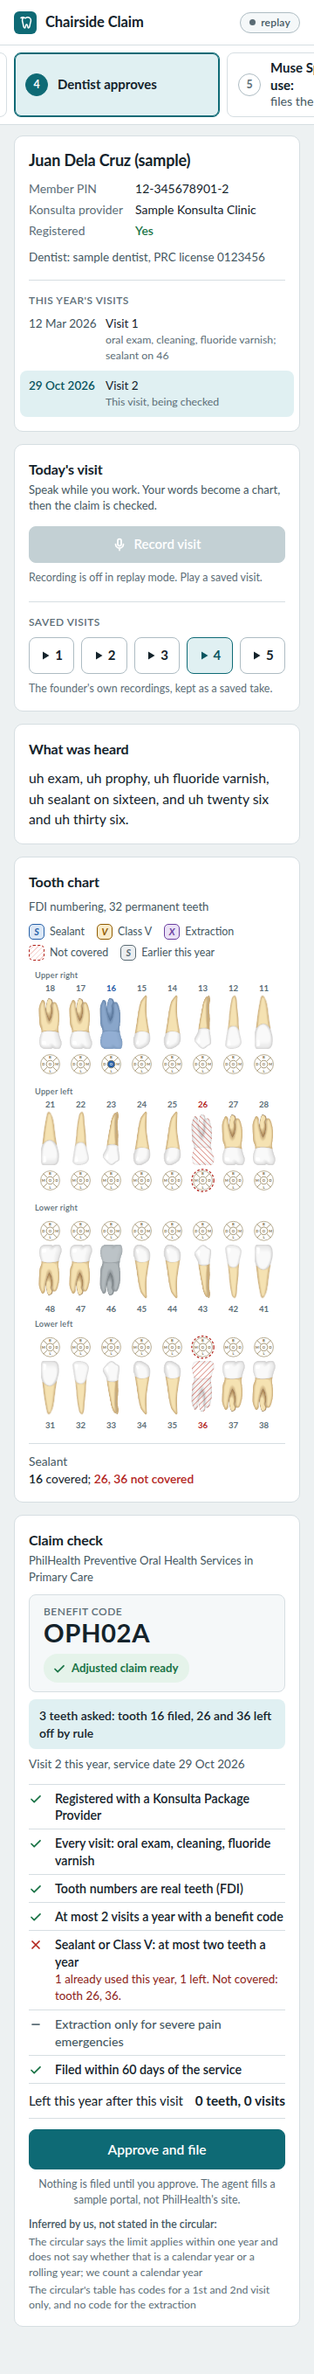
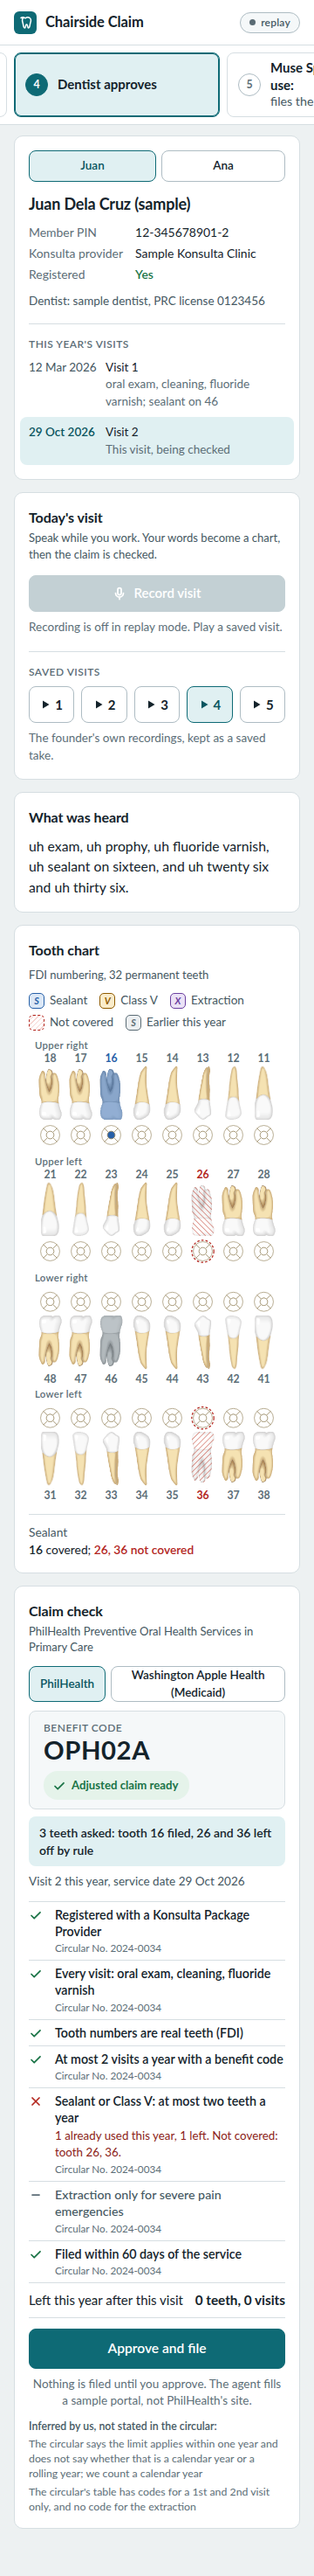
phone: larger chart numbers and small print, surface letters hidden at 360 px
Sol read the 360 px view as FAIL (labels too small), then PASS after this change.

Changed region(s): [[0.0306, 0.0, 0.9472, 0.9897], [0.7639, 0.0, 1.0, 0.0619]]

diff --git a/app/static/index.html b/app/static/index.html
@@ -176,6 +176,14 @@ svg.ico { width: 16px; height: 16px; flex: none; fill: none; stroke: currentColo
 .tooth.s-sealant .tn { fill: var(--sealant); } .tooth.s-class_v .tn { fill: var(--classv); } .tooth.s-extraction .tn { fill: var(--extraction); } .tooth.earlier .tn { fill: var(--earlier); }
 .tooth.refused .tn { fill: var(--fail); }
 .midline { stroke: #c3ccd1; stroke-dasharray: 3 4; }
+@media (max-width: 560px) {
+  #chart.narrow .tn { font-size: 14px; }
+  #chart.narrow .zone { font-size: 13px; }
+  #chart.narrow .sl { display: none; }
+  .rule .rs, .inferred, .vrow .t small, .hint, .legend, .prow, .rule .nolist { font-size: .9rem; }
+  .rule .rd { font-size: .95rem; }
+}
+
 .zone { font: 600 10.5px var(--font); fill: var(--ink-3); letter-spacing: .03em; }
 .tlist { margin-top: 12px; border-top: 1px solid var(--line); padding-top: 10px; display: grid; gap: 6px; font-size: .92rem; }
 .tlist .none { color: var(--ink-3); }
@@ -520,7 +528,7 @@ function toothSVG(c, L) {
 
 function renderChart() {
   const L = layout(), svg = $("#chart");
-  svg.setAttribute("viewBox", `0 0 ${L.w} ${L.h}`); svg.style.maxWidth = narrow ? "420px" : "760px";
+  svg.setAttribute("viewBox", `0 0 ${L.w} ${L.h}`); svg.style.maxWidth = narrow ? "420px" : "760px"; svg.classList.toggle("narrow", narrow);
   svg.innerHTML = `<defs><pattern id="hatch" width="5" height="5" patternUnits="userSpaceOnUse" patternTransform="rotate(45)"><line x1="0" y1="0" x2="0" y2="5" stroke="#c0392b" stroke-width="1.5" stroke-opacity=".75"/></pattern></defs>`
     + (L.mid ? `<line class="midline" x1="${L.mid}" y1="4" x2="${L.mid}" y2="${L.h - 4}"/>` : "")
     + L.zones.map((z) => `<text class="zone" x="${z.x}" y="${z.y}" text-anchor="${z.a}">${z.t}</text>`).join("")
